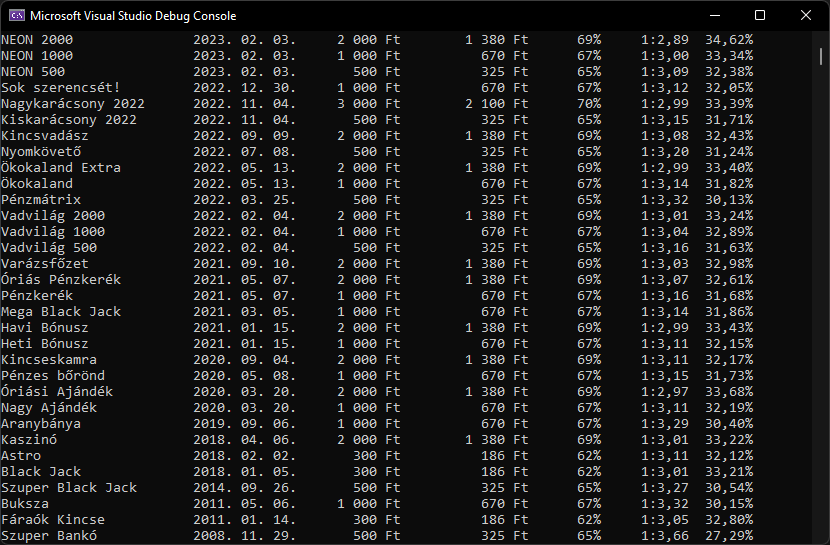
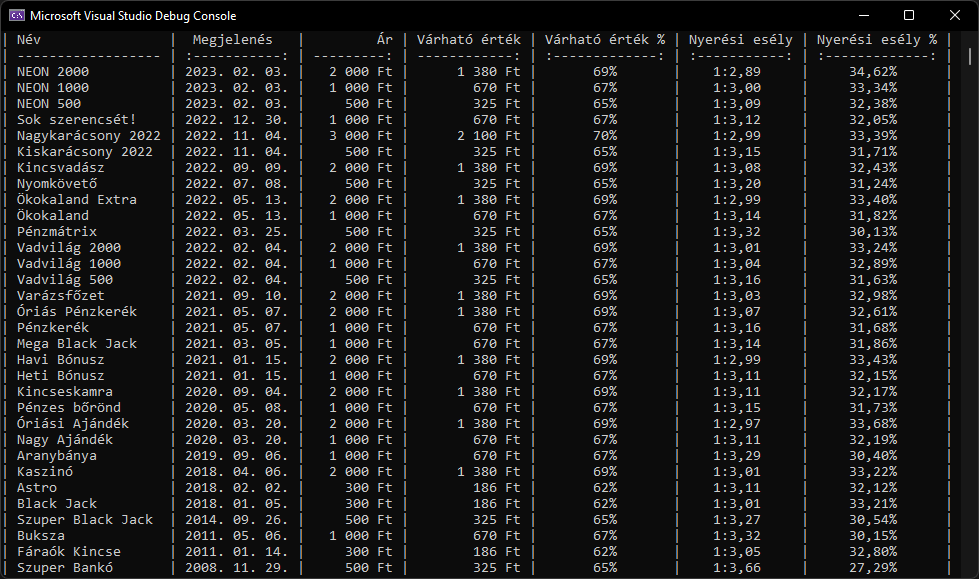
refactor

Changed region(s): [[0.0, 0.0, 0.994, 0.9982], [0.9639, 0.4991, 0.994, 0.9358], [0.9639, 0.0, 0.994, 0.0312]]

diff --git a/src/ScratchcardStatistics/Services/StatisticsService.cs b/src/ScratchcardStatistics/Services/StatisticsService.cs
@@ -1,0 +1,40 @@
+using ScratchcardStatistics.Models;
+using System.Globalization;
+using System.Text;
+
+namespace ScratchcardStatistics.Services;
+
+public static class StatisticsService
+{
+    private static readonly CultureInfo cultureInfo = CultureInfo.GetCultureInfo("hu-HU");
+    private static readonly string tableHeader =
+        $"| Név                |  Megjelenés   |         Ár | Várható érték | Várható érték % | Nyerési esély | Nyerési esély % |{Environment.NewLine}"
+        +"| ------------------ | :-----------: | ---------: | ------------: | :-------------: | :-----------: | :-------------: |";
+
+    public static string GetStatistics(List<Scratchcard> scratchcards)
+    {
+        var sb = new StringBuilder();
+        sb.AppendLine("# Kaparós sorsjegy statisztikák");
+        sb.AppendLine("A Magyarországon [kiadott](https://bet.szerencsejatek.hu/sorsjegyek \"Szerencsejáték Zrt. - Kaparós sorsjegyek\") kaparós sorsjegyek statisztikái.");
+        sb.AppendLine();
+        sb.AppendLine("## Rendezve megjelenés szerint");
+        AppendTable(sb, scratchcards.OrderByDescending(s => s.ReleaseDate).ThenByDescending(s => s.Price));
+        sb.AppendLine();
+        sb.AppendLine("## Rendezve várható érték százalék szerint");
+        AppendTable(sb, scratchcards.OrderByDescending(s => s.ExpectedValuePercent).ThenByDescending(s => s.ChanceOfWinningPercent));
+        return sb.ToString();
+    }
+
+    private static void AppendTable(StringBuilder sb, IOrderedEnumerable<Scratchcard> scratchcards)
+    {
+        sb.AppendLine(tableHeader);
+        foreach (var scratchcard in scratchcards)
+        {
+            sb.AppendLine(scratchcard.ToTableRow());
+        }
+    }
+
+    private static string ToTableRow(this Scratchcard scratchcard) =>
+        $"| {scratchcard.Name,-18} | {scratchcard.ReleaseDate:yyyy. MM. dd.} | {scratchcard.Price.ToString("C0", cultureInfo),+10} | {scratchcard.ExpectedValue.ToString("C0", cultureInfo),+13} " +
+        $"|       {scratchcard.ExpectedValuePercent:P0}       |    1:{scratchcard.ChanceOfWinningToOne:N2}     |     {scratchcard.ChanceOfWinningPercent:P2}      |";
+}

diff --git a/src/ScratchcardStatistics/Services/LoadService.cs b/src/ScratchcardStatistics/Services/LoadService.cs
@@ -1,0 +1,25 @@
+using ScratchcardStatistics.Models;
+using System.Text.Json;
+
+namespace ScratchcardStatistics.Services;
+
+public static class LoadService
+{
+    public static async Task<List<Scratchcard>> LoadScratchcardsAsync()
+    {
+        var options = new JsonSerializerOptions
+        {
+            PropertyNameCaseInsensitive = true,
+        };
+
+        var scratchcards = new List<Scratchcard>();
+
+        foreach (var filePath in Directory.EnumerateFiles("Scratchcards"))
+        {
+            var json = await File.ReadAllTextAsync(filePath);
+            scratchcards.Add(JsonSerializer.Deserialize<Scratchcard>(json, options)!);
+        }
+
+        return scratchcards;
+    }
+}

diff --git a/src/ScratchcardStatistics/Program.cs b/src/ScratchcardStatistics/Program.cs
@@ -1,4 +1,5 @@
 using ScratchcardStatistics.Services;
 
-var scratchcards = await ScratchcardService.GetScratchcardsAsync();
-DisplayService.Display(scratchcards);
+var scratchcards = await LoadService.LoadScratchcardsAsync();
+var statistics = StatisticsService.GetStatistics(scratchcards);
+Console.Write(statistics);

diff --git a/STATISTICS.md b/STATISTICS.md
@@ -1,38 +1,74 @@
 # Kaparós sorsjegy statisztikák
-
 A Magyarországon [kiadott](https://bet.szerencsejatek.hu/sorsjegyek "Szerencsejáték Zrt. - Kaparós sorsjegyek") kaparós sorsjegyek statisztikái.
 
-Név|Megjelenés|Ár|Várható érték|Várható érték %|Nyerési esély|Nyerési esély %
----|:---:|---:|---:|:---:|:---:|:---:
-NEON 2000           |2023. 02. 03.|  2 000 Ft|  1 380 Ft|69%|1:2,89|34,62%
-NEON 1000           |2023. 02. 03.|  1 000 Ft|    670 Ft|67%|1:3,00|33,34%
-NEON 500            |2023. 02. 03.|    500 Ft|    325 Ft|65%|1:3,09|32,38%
-Sok szerencsét!     |2022. 12. 30.|  1 000 Ft|    670 Ft|67%|1:3,12|32,05%
-Nagykarácsony 2022  |2022. 11. 04.|  3 000 Ft|  2 100 Ft|70%|1:2,99|33,39%
-Kiskarácsony 2022   |2022. 11. 04.|    500 Ft|    325 Ft|65%|1:3,15|31,71%
-Kincsvadász         |2022. 09. 09.|  2 000 Ft|  1 380 Ft|69%|1:3,08|32,43%
-Nyomkövető          |2022. 07. 08.|    500 Ft|    325 Ft|65%|1:3,20|31,24%
-Ökokaland Extra     |2022. 05. 13.|  2 000 Ft|  1 380 Ft|69%|1:2,99|33,40%
-Ökokaland           |2022. 05. 13.|  1 000 Ft|    670 Ft|67%|1:3,14|31,82%
-Pénzmátrix          |2022. 03. 25.|    500 Ft|    325 Ft|65%|1:3,32|30,13%
-Vadvilág 2000       |2022. 02. 04.|  2 000 Ft|  1 380 Ft|69%|1:3,01|33,24%
-Vadvilág 1000       |2022. 02. 04.|  1 000 Ft|    670 Ft|67%|1:3,04|32,89%
-Vadvilág 500        |2022. 02. 04.|    500 Ft|    325 Ft|65%|1:3,16|31,63%
-Varázsfőzet         |2021. 09. 10.|  2 000 Ft|  1 380 Ft|69%|1:3,03|32,98%
-Óriás Pénzkerék     |2021. 05. 07.|  2 000 Ft|  1 380 Ft|69%|1:3,07|32,61%
-Pénzkerék           |2021. 05. 07.|  1 000 Ft|    670 Ft|67%|1:3,16|31,68%
-Mega Black Jack     |2021. 03. 05.|  1 000 Ft|    670 Ft|67%|1:3,14|31,86%
-Havi Bónusz         |2021. 01. 15.|  2 000 Ft|  1 380 Ft|69%|1:2,99|33,43%
-Heti Bónusz         |2021. 01. 15.|  1 000 Ft|    670 Ft|67%|1:3,11|32,15%
-Kincseskamra        |2020. 09. 04.|  2 000 Ft|  1 380 Ft|69%|1:3,11|32,17%
-Pénzes bőrönd       |2020. 05. 08.|  1 000 Ft|    670 Ft|67%|1:3,15|31,73%
-Óriási Ajándék      |2020. 03. 20.|  2 000 Ft|  1 380 Ft|69%|1:2,97|33,68%
-Nagy Ajándék        |2020. 03. 20.|  1 000 Ft|    670 Ft|67%|1:3,11|32,19%
-Aranybánya          |2019. 09. 06.|  1 000 Ft|    670 Ft|67%|1:3,29|30,40%
-Kaszinó             |2018. 04. 06.|  2 000 Ft|  1 380 Ft|69%|1:3,01|33,22%
-Astro               |2018. 02. 02.|    300 Ft|    186 Ft|62%|1:3,11|32,12%
-Black Jack          |2018. 01. 05.|    300 Ft|    186 Ft|62%|1:3,01|33,21%
-Szuper Black Jack   |2014. 09. 26.|    500 Ft|    325 Ft|65%|1:3,27|30,54%
-Buksza              |2011. 05. 06.|  1 000 Ft|    670 Ft|67%|1:3,32|30,15%
-Fáraók Kincse       |2011. 01. 14.|    300 Ft|    186 Ft|62%|1:3,05|32,80%
-Szuper Bankó        |2008. 11. 29.|    500 Ft|    325 Ft|65%|1:3,66|27,29%
+## Rendezve megjelenés szerint
+| Név                |  Megjelenés   |         Ár | Várható érték | Várható érték % | Nyerési esély | Nyerési esély % |
+| ------------------ | :-----------: | ---------: | ------------: | :-------------: | :-----------: | :-------------: |
+| NEON 2000          | 2023. 02. 03. |   2 000 Ft |      1 380 Ft |       69%       |    1:2,89     |     34,62%      |
+| NEON 1000          | 2023. 02. 03. |   1 000 Ft |        670 Ft |       67%       |    1:3,00     |     33,34%      |
+| NEON 500           | 2023. 02. 03. |     500 Ft |        325 Ft |       65%       |    1:3,09     |     32,38%      |
+| Sok szerencsét!    | 2022. 12. 30. |   1 000 Ft |        670 Ft |       67%       |    1:3,12     |     32,05%      |
+| Nagykarácsony 2022 | 2022. 11. 04. |   3 000 Ft |      2 100 Ft |       70%       |    1:2,99     |     33,39%      |
+| Kiskarácsony 2022  | 2022. 11. 04. |     500 Ft |        325 Ft |       65%       |    1:3,15     |     31,71%      |
+| Kincsvadász        | 2022. 09. 09. |   2 000 Ft |      1 380 Ft |       69%       |    1:3,08     |     32,43%      |
+| Nyomkövető         | 2022. 07. 08. |     500 Ft |        325 Ft |       65%       |    1:3,20     |     31,24%      |
+| Ökokaland Extra    | 2022. 05. 13. |   2 000 Ft |      1 380 Ft |       69%       |    1:2,99     |     33,40%      |
+| Ökokaland          | 2022. 05. 13. |   1 000 Ft |        670 Ft |       67%       |    1:3,14     |     31,82%      |
+| Pénzmátrix         | 2022. 03. 25. |     500 Ft |        325 Ft |       65%       |    1:3,32     |     30,13%      |
+| Vadvilág 2000      | 2022. 02. 04. |   2 000 Ft |      1 380 Ft |       69%       |    1:3,01     |     33,24%      |
+| Vadvilág 1000      | 2022. 02. 04. |   1 000 Ft |        670 Ft |       67%       |    1:3,04     |     32,89%      |
+| Vadvilág 500       | 2022. 02. 04. |     500 Ft |        325 Ft |       65%       |    1:3,16     |     31,63%      |
+| Varázsfőzet        | 2021. 09. 10. |   2 000 Ft |      1 380 Ft |       69%       |    1:3,03     |     32,98%      |
+| Óriás Pénzkerék    | 2021. 05. 07. |   2 000 Ft |      1 380 Ft |       69%       |    1:3,07     |     32,61%      |
+| Pénzkerék          | 2021. 05. 07. |   1 000 Ft |        670 Ft |       67%       |    1:3,16     |     31,68%      |
+| Mega Black Jack    | 2021. 03. 05. |   1 000 Ft |        670 Ft |       67%       |    1:3,14     |     31,86%      |
+| Havi Bónusz        | 2021. 01. 15. |   2 000 Ft |      1 380 Ft |       69%       |    1:2,99     |     33,43%      |
+| Heti Bónusz        | 2021. 01. 15. |   1 000 Ft |        670 Ft |       67%       |    1:3,11     |     32,15%      |
+| Kincseskamra       | 2020. 09. 04. |   2 000 Ft |      1 380 Ft |       69%       |    1:3,11     |     32,17%      |
+| Pénzes bőrönd      | 2020. 05. 08. |   1 000 Ft |        670 Ft |       67%       |    1:3,15     |     31,73%      |
+| Óriási Ajándék     | 2020. 03. 20. |   2 000 Ft |      1 380 Ft |       69%       |    1:2,97     |     33,68%      |
+| Nagy Ajándék       | 2020. 03. 20. |   1 000 Ft |        670 Ft |       67%       |    1:3,11     |     32,19%      |
+| Aranybánya         | 2019. 09. 06. |   1 000 Ft |        670 Ft |       67%       |    1:3,29     |     30,40%      |
+| Kaszinó            | 2018. 04. 06. |   2 000 Ft |      1 380 Ft |       69%       |    1:3,01     |     33,22%      |
+| Astro              | 2018. 02. 02. |     300 Ft |        186 Ft |       62%       |    1:3,11     |     32,12%      |
+| Black Jack         | 2018. 01. 05. |     300 Ft |        186 Ft |       62%       |    1:3,01     |     33,21%      |
+| Szuper Black Jack  | 2014. 09. 26. |     500 Ft |        325 Ft |       65%       |    1:3,27     |     30,54%      |
+| Buksza             | 2011. 05. 06. |   1 000 Ft |        670 Ft |       67%       |    1:3,32     |     30,15%      |
+| Fáraók Kincse      | 2011. 01. 14. |     300 Ft |        186 Ft |       62%       |    1:3,05     |     32,80%      |
+| Szuper Bankó       | 2008. 11. 29. |     500 Ft |        325 Ft |       65%       |    1:3,66     |     27,29%      |
+
+## Rendezve várható érték százalék szerint
+| Név                |  Megjelenés   |         Ár | Várható érték | Várható érték % | Nyerési esély | Nyerési esély % |
+| ------------------ | :-----------: | ---------: | ------------: | :-------------: | :-----------: | :-------------: |
+| Nagykarácsony 2022 | 2022. 11. 04. |   3 000 Ft |      2 100 Ft |       70%       |    1:2,99     |     33,39%      |
+| NEON 2000          | 2023. 02. 03. |   2 000 Ft |      1 380 Ft |       69%       |    1:2,89     |     34,62%      |
+| Havi Bónusz        | 2021. 01. 15. |   2 000 Ft |      1 380 Ft |       69%       |    1:2,99     |     33,43%      |
+| Ökokaland Extra    | 2022. 05. 13. |   2 000 Ft |      1 380 Ft |       69%       |    1:2,99     |     33,40%      |
+| Vadvilág 2000      | 2022. 02. 04. |   2 000 Ft |      1 380 Ft |       69%       |    1:3,01     |     33,24%      |
+| Kaszinó            | 2018. 04. 06. |   2 000 Ft |      1 380 Ft |       69%       |    1:3,01     |     33,22%      |
+| Varázsfőzet        | 2021. 09. 10. |   2 000 Ft |      1 380 Ft |       69%       |    1:3,03     |     32,98%      |
+| Óriás Pénzkerék    | 2021. 05. 07. |   2 000 Ft |      1 380 Ft |       69%       |    1:3,07     |     32,61%      |
+| Kincsvadász        | 2022. 09. 09. |   2 000 Ft |      1 380 Ft |       69%       |    1:3,08     |     32,43%      |
+| Kincseskamra       | 2020. 09. 04. |   2 000 Ft |      1 380 Ft |       69%       |    1:3,11     |     32,17%      |
+| Óriási Ajándék     | 2020. 03. 20. |   2 000 Ft |      1 380 Ft |       69%       |    1:2,97     |     33,68%      |
+| NEON 1000          | 2023. 02. 03. |   1 000 Ft |        670 Ft |       67%       |    1:3,00     |     33,34%      |
+| Vadvilág 1000      | 2022. 02. 04. |   1 000 Ft |        670 Ft |       67%       |    1:3,04     |     32,89%      |
+| Nagy Ajándék       | 2020. 03. 20. |   1 000 Ft |        670 Ft |       67%       |    1:3,11     |     32,19%      |
+| Heti Bónusz        | 2021. 01. 15. |   1 000 Ft |        670 Ft |       67%       |    1:3,11     |     32,15%      |
+| Sok szerencsét!    | 2022. 12. 30. |   1 000 Ft |        670 Ft |       67%       |    1:3,12     |     32,05%      |
+| Mega Black Jack    | 2021. 03. 05. |   1 000 Ft |        670 Ft |       67%       |    1:3,14     |     31,86%      |
+| Ökokaland          | 2022. 05. 13. |   1 000 Ft |        670 Ft |       67%       |    1:3,14     |     31,82%      |
+| Pénzes bőrönd      | 2020. 05. 08. |   1 000 Ft |        670 Ft |       67%       |    1:3,15     |     31,73%      |
+| Pénzkerék          | 2021. 05. 07. |   1 000 Ft |        670 Ft |       67%       |    1:3,16     |     31,68%      |
+| Aranybánya         | 2019. 09. 06. |   1 000 Ft |        670 Ft |       67%       |    1:3,29     |     30,40%      |
+| Buksza             | 2011. 05. 06. |   1 000 Ft |        670 Ft |       67%       |    1:3,32     |     30,15%      |
+| NEON 500           | 2023. 02. 03. |     500 Ft |        325 Ft |       65%       |    1:3,09     |     32,38%      |
+| Kiskarácsony 2022  | 2022. 11. 04. |     500 Ft |        325 Ft |       65%       |    1:3,15     |     31,71%      |
+| Vadvilág 500       | 2022. 02. 04. |     500 Ft |        325 Ft |       65%       |    1:3,16     |     31,63%      |
+| Nyomkövető         | 2022. 07. 08. |     500 Ft |        325 Ft |       65%       |    1:3,20     |     31,24%      |
+| Szuper Black Jack  | 2014. 09. 26. |     500 Ft |        325 Ft |       65%       |    1:3,27     |     30,54%      |
+| Pénzmátrix         | 2022. 03. 25. |     500 Ft |        325 Ft |       65%       |    1:3,32     |     30,13%      |
+| Szuper Bankó       | 2008. 11. 29. |     500 Ft |        325 Ft |       65%       |    1:3,66     |     27,29%      |
+| Black Jack         | 2018. 01. 05. |     300 Ft |        186 Ft |       62%       |    1:3,01     |     33,21%      |
+| Fáraók Kincse      | 2011. 01. 14. |     300 Ft |        186 Ft |       62%       |    1:3,05     |     32,80%      |
+| Astro              | 2018. 02. 02. |     300 Ft |        186 Ft |       62%       |    1:3,11     |     32,12%      |

diff --git a/README.md b/README.md
@@ -1,5 +1,4 @@
 # Kaparós sorsjegy statisztikák
-
 A Magyarországon [kiadott](https://bet.szerencsejatek.hu/sorsjegyek "Szerencsejáték Zrt. - Kaparós sorsjegyek") kaparós sorsjegyek statisztikái. [Teljes táblázat.](https://github.com/angyanmark/ScratchcardStatistics/blob/master/STATISTICS.md)
 
 ## Képernyőképek
